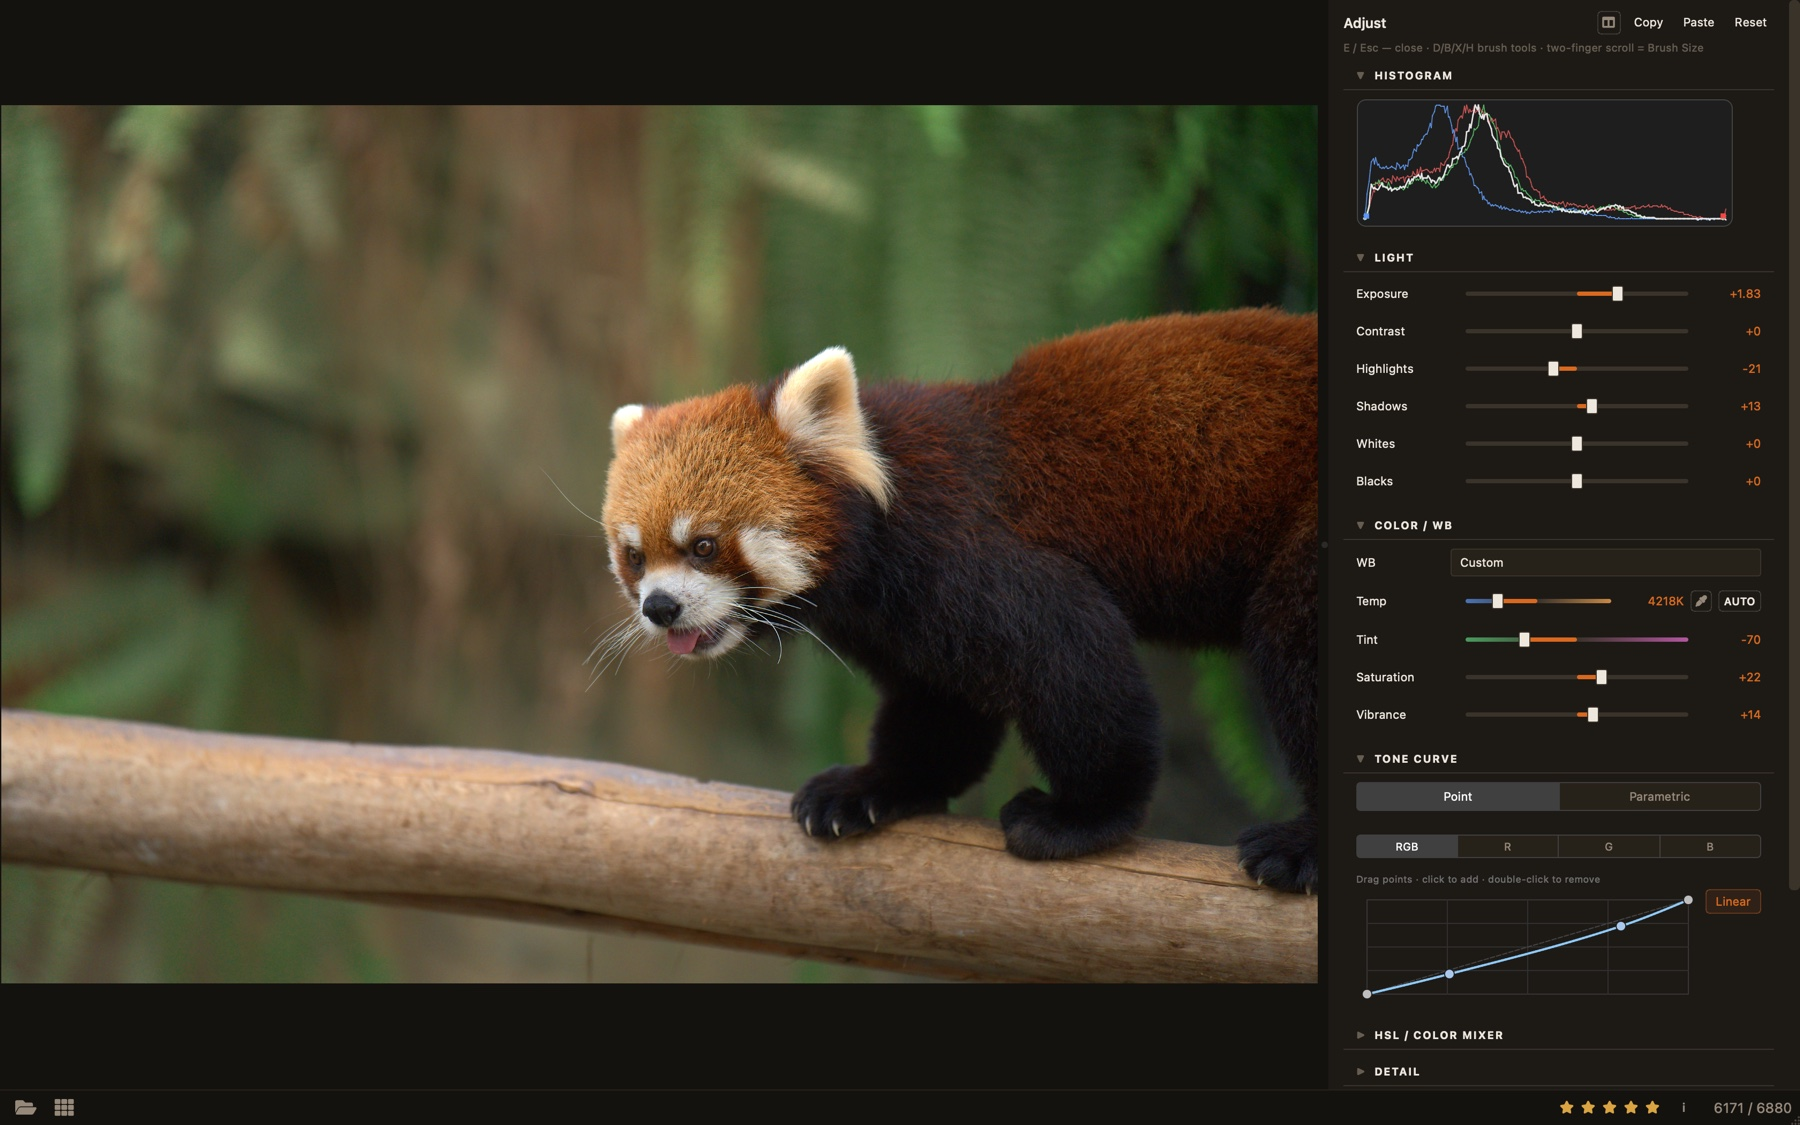
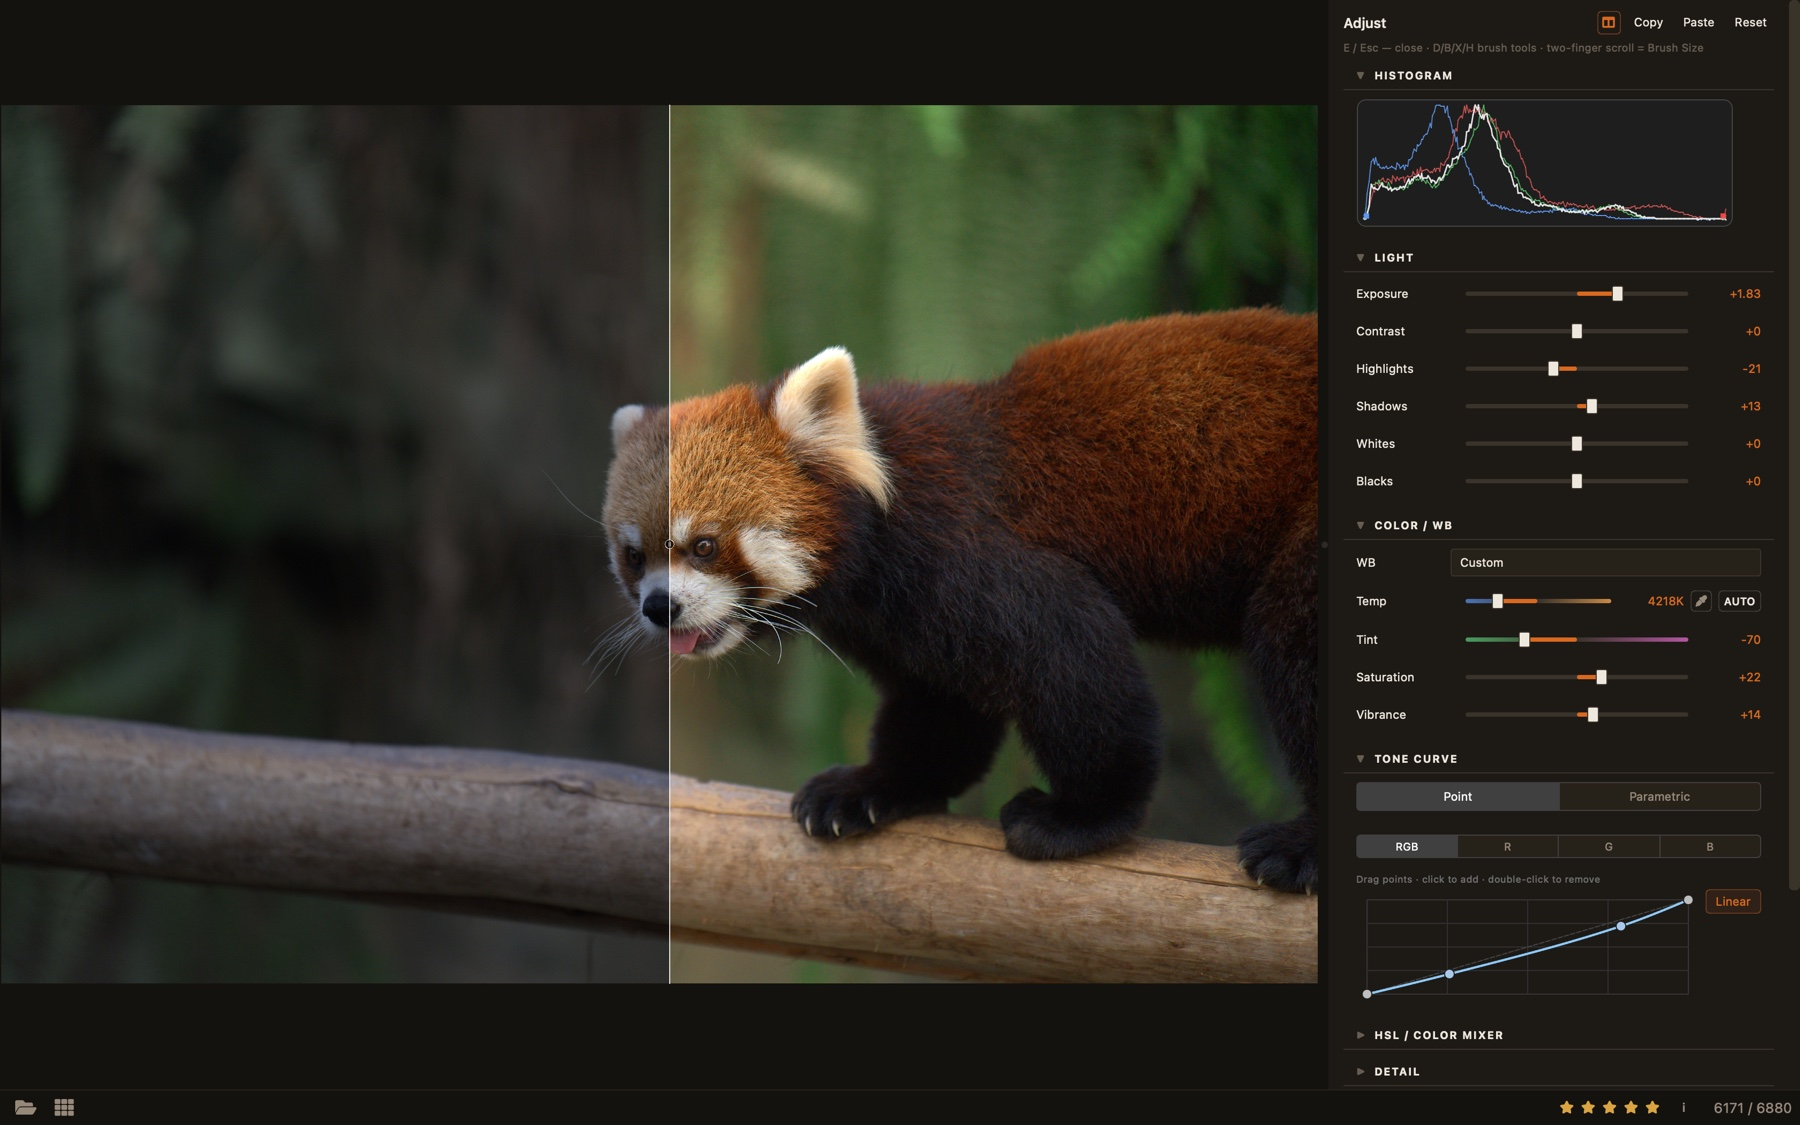
README: use before/after split view for the Adjust screenshot.

Changed region(s): [[0.0, 0.0933, 0.3733, 0.9022], [0.9956, 0.9956, 1.0, 1.0]]

diff --git a/README.md b/README.md
@@ -35,8 +35,8 @@
 </p>
 
 <p align="center">
-  <img src="docs/images/adjust.jpg" alt="Adjust panel — histogram, tone sliders, and tone curve beside the photo" width="900">
-  <br><em>The Adjust panel: develop non-destructively, saved to XMP</em>
+  <img src="docs/images/adjust.jpg" alt="Adjust panel with a before/after split view — histogram, tone sliders, and tone curve beside the photo" width="900">
+  <br><em>The Adjust panel with before/after split: develop non-destructively, saved to XMP</em>
 </p>
 
 ## New in 3.0

diff --git a/README.zh-TW.md b/README.zh-TW.md
@@ -35,8 +35,8 @@
 </p>
 
 <p align="center">
-  <img src="docs/images/adjust.jpg" alt="Adjust 面板——直方圖、色調滑桿與曲線在相片旁" width="900">
-  <br><em>Adjust 面板：非破壞顯影，寫入 XMP</em>
+  <img src="docs/images/adjust.jpg" alt="Adjust 面板與前後對比分割檢視——直方圖、色調滑桿與曲線在相片旁" width="900">
+  <br><em>Adjust 面板（前後對比分割）：非破壞顯影，寫入 XMP</em>
 </p>
 
 ## 3.0 新功能